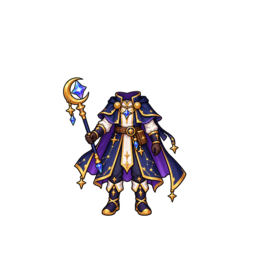
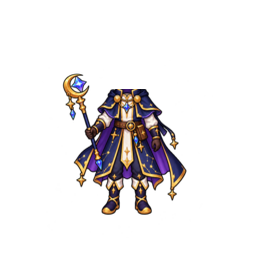
Normalize outfit anatomical anchors

Changed region(s): [[0.2188, 0.2812, 0.75, 0.8438]]

diff --git a/avatar-basic-pack-contract-selftest.js b/avatar-basic-pack-contract-selftest.js
@@ -48,7 +48,11 @@ assert.ok(studentShop.includes("shop-preview-base shop-preview-head-only"),'stud
 assert.ok(outfitBake.includes('FACE_KEEP_OUT = (104, 48, 153, 88)'),'outfit bake must preserve authored necklines from Y=89');
 assert.ok(previewBake.includes('HEAD_BOTTOM = 89'),'shop preview head mask must meet the authored neckline at Y=89');
 assert.ok(outfitBake.includes('TARGET_BODY_CENTROID = 128.0'),'mass-production outfits must share the scientist visual center');
+assert.ok(outfitBake.includes('TARGET_NECKLINE_Y = 89'),'mass-production outfits must share the scientist neckline/shoulder anchor');
+assert.ok(outfitBake.includes('FIXED_DECORATION_TOP_Y = 58'),'vertical normalization must preserve the shared decoration top');
 assert.ok(outfitBake.includes('def body_center_x'),'mass-production bake must measure the shared torso window');
+assert.ok(outfitBake.includes('def anatomical_top_y'),'mass-production bake must measure collar and both shoulders');
+assert.ok(outfitBake.includes('def normalize_vertical_landmarks'),'mass-production bake must normalize upper-body proportions while feet stay fixed');
 assert.ok(outfitBake.includes('step = round(TARGET_BODY_CENTROID - current_x)'),'mass-production bake must normalize X automatically');
 for(const itemSpecific of ['SOURCE_X_ADJUST','NECKLINE_RAISE'])assert.ok(!outfitBake.includes(itemSpecific),`item-specific correction must not remain: ${itemSpecific}`);
 assert.ok(!fs.existsSync(path.join(root,'server/avatar-shop-pack-v5.js')),'temporary v5 catalog must be removed');

diff --git a/scripts/bake-avatar-outfit-v2.py b/scripts/bake-avatar-outfit-v2.py
@@ -1,4 +1,5 @@
 from pathlib import Path
+from statistics import median
 from PIL import Image
 
 ROOT = Path(__file__).resolve().parents[1]
@@ -18,6 +19,8 @@ MASTER = 256
 TARGET_BODY_X = 128
 TARGET_BODY_CENTROID = 128.0
 TARGET_FOOT_Y = 237
+TARGET_NECKLINE_Y = 89
+FIXED_DECORATION_TOP_Y = 58
 # Production outfits own the body and neckline; the approved base owns only
 # the face/head opening.  Clearing through Y=96 erased eight rows of authored
 # collars after the fixed -8 anchor translation and created a visible gap.
@@ -89,6 +92,46 @@ def body_center_x(img: Image.Image) -> float:
     return weighted_x / total_alpha
 
 
+def first_solid_row(img: Image.Image, x0: int, x1: int) -> int:
+    a = alpha(img)
+    for y in range(TARGET_NECKLINE_Y, 121):
+        if sum(a.getpixel((x, y)) > 80 for x in range(x0, x1)) >= 3:
+            return y
+    raise RuntimeError(f"could not locate neckline/shoulder in X={x0}:{x1}")
+
+
+def anatomical_top_y(img: Image.Image) -> int:
+    """Scientist baseline: center collar plus both shoulder starts."""
+    rows = [
+        first_solid_row(img, 120, 137),
+        first_solid_row(img, 95, 113),
+        first_solid_row(img, 143, 161),
+    ]
+    return int(median(rows))
+
+
+def normalize_vertical_landmarks(img: Image.Image) -> Image.Image:
+    """Align collar/shoulders to Y=89 while keeping decoration top and feet fixed."""
+    source_y = anatomical_top_y(img)
+    if source_y <= TARGET_NECKLINE_Y:
+        return img
+    out = Image.new("RGBA", (MASTER, MASTER), (0, 0, 0, 0))
+    out.alpha_composite(img.crop((0, 0, MASTER, FIXED_DECORATION_TOP_Y)), (0, 0))
+    upper = img.crop((0, FIXED_DECORATION_TOP_Y, MASTER, source_y))
+    upper = upper.resize(
+        (MASTER, TARGET_NECKLINE_Y - FIXED_DECORATION_TOP_Y),
+        Image.Resampling.LANCZOS,
+    )
+    out.alpha_composite(upper, (0, FIXED_DECORATION_TOP_Y))
+    body = img.crop((0, source_y, MASTER, TARGET_FOOT_Y + 1))
+    body = body.resize(
+        (MASTER, TARGET_FOOT_Y - TARGET_NECKLINE_Y + 1),
+        Image.Resampling.LANCZOS,
+    )
+    out.alpha_composite(body, (0, TARGET_NECKLINE_Y))
+    return out
+
+
 def bake(path: Path, target_foot_y: int):
     """Anchor authored artwork only; never synthesize garment pixels.
 
@@ -109,6 +152,8 @@ def bake(path: Path, target_foot_y: int):
     dy = target_foot_y - foot_y
     vertical = translate(img, 0, dy)
     vertical = protect_face(vertical)
+    vertical = normalize_vertical_landmarks(vertical)
+    vertical = protect_face(vertical)
     measured_x = body_center_x(vertical)
     baked = vertical
     dx = 0
@@ -126,6 +171,9 @@ def bake(path: Path, target_foot_y: int):
     final_x = body_center_x(baked)
     if abs(final_x - TARGET_BODY_CENTROID) > 0.75:
         raise RuntimeError(f"{path.name}: body center failed standard template: {final_x:.2f}")
+    final_top = anatomical_top_y(baked)
+    if final_top > TARGET_NECKLINE_Y + 1:
+        raise RuntimeError(f"{path.name}: neckline/shoulder failed standard template: {final_top}")
     baked.save(path, "PNG", optimize=True)
     print(f"{path.name}: bodyCenter {measured_x:.2f}->{final_x:.2f}, footY {foot_y}->{target_foot_y}, dx={dx}, dy={dy}")
 
